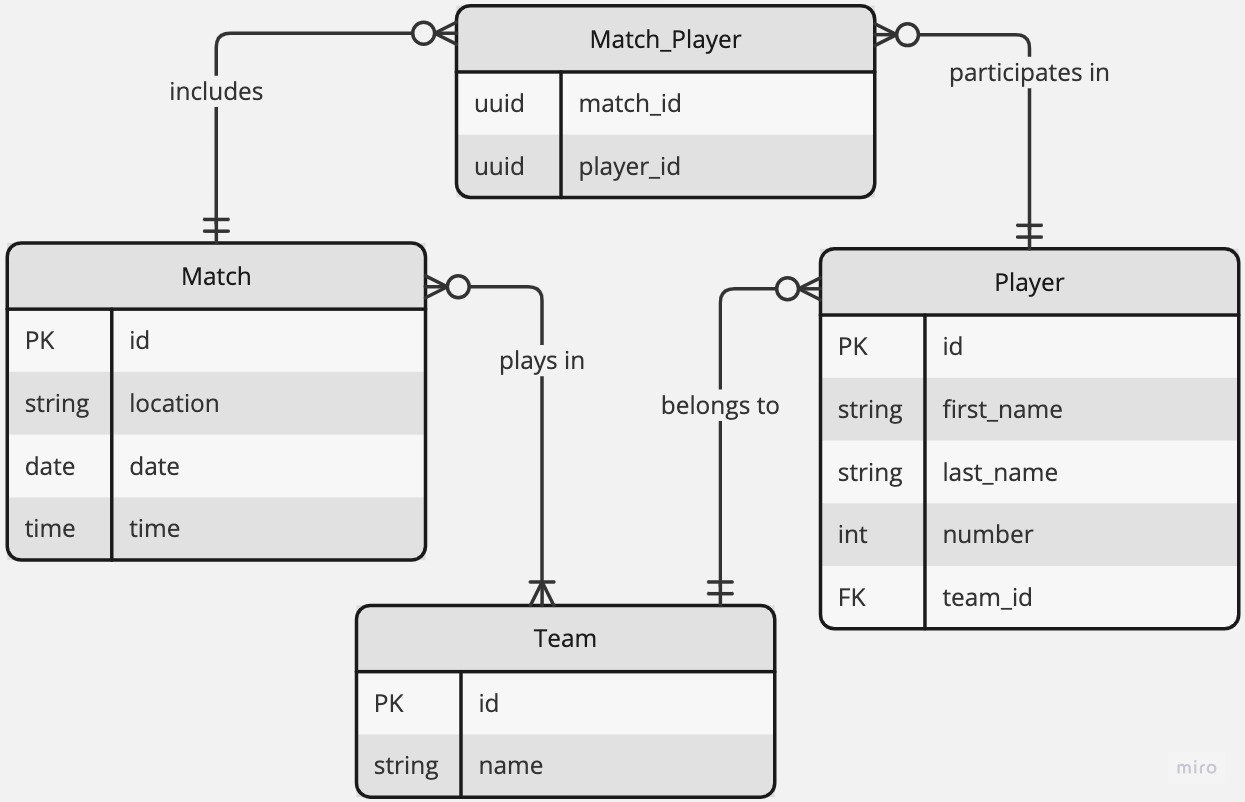
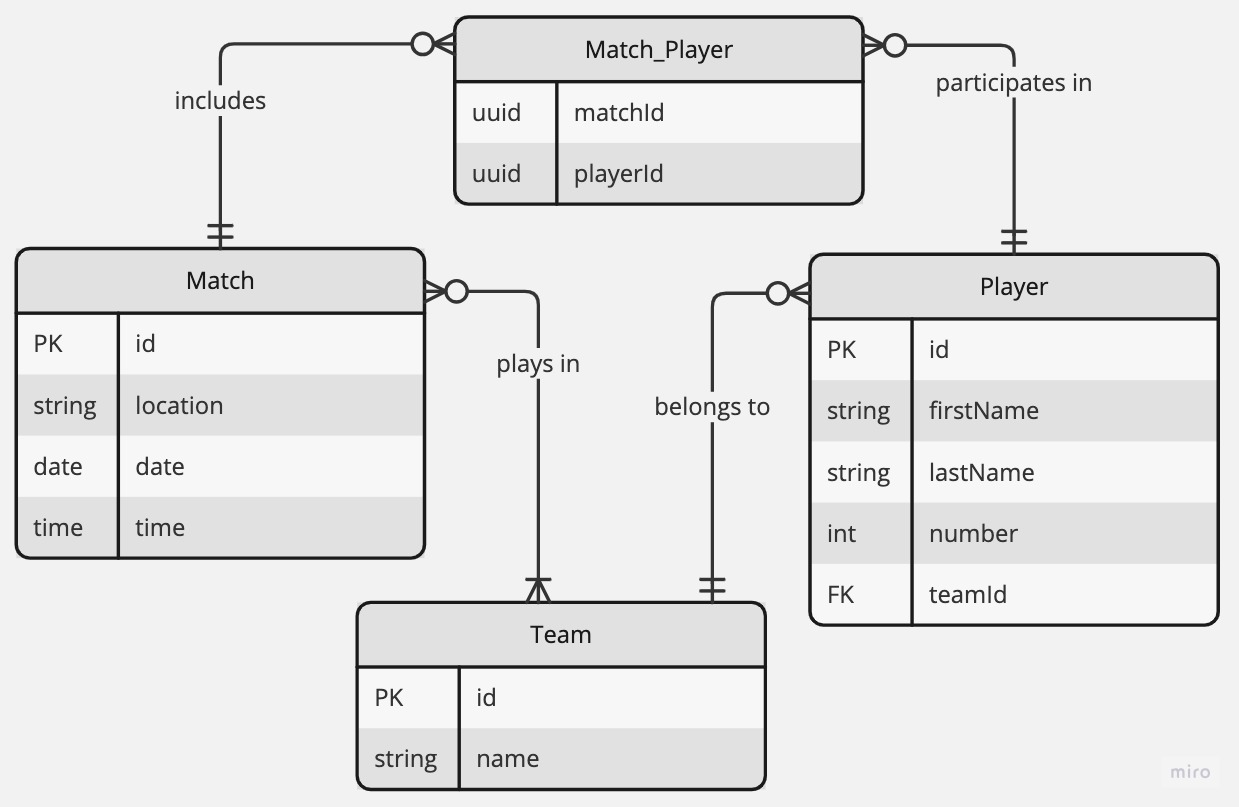
add relations

Changed region(s): [[0.0, 0.0, 1.0, 0.9975], [0.4294, 0.3741, 0.46, 0.4052]]

diff --git a/src/players/entities/player.entity.ts b/src/players/entities/player.entity.ts
@@ -1,6 +1,15 @@
-import { Column, Entity } from 'typeorm';
+import {
+  Column,
+  Entity,
+  Index,
+  JoinColumn,
+  ManyToMany,
+  ManyToOne,
+} from 'typeorm';
 import { AbstractEntity } from 'src/database/entities/abstract.entity';
 import { Field, ObjectType } from '@nestjs/graphql';
+import { Team } from 'src/teams/entities/team.entity';
+import { Match } from 'src/matches/entities/match.entity';
 
 @ObjectType('Player')
 @Entity({ name: 'Player' })
@@ -17,6 +26,13 @@ export class Player extends AbstractEntity<Player> {
   @Column()
   number: number;
 
-  @Field()
-  teamId: string;
+  @Field({ nullable: true })
+  @ManyToOne(() => Team, (team) => team.players)
+  @JoinColumn()
+  @Index()
+  team: Team;
+
+  @ManyToMany(() => Match, (match) => match.players)
+  @Field(() => [Match], { nullable: true })
+  matches: Match[];
 }

diff --git a/src/players/players.service.ts b/src/players/players.service.ts
@@ -2,6 +2,7 @@ import { Injectable } from '@nestjs/common';
 import { Repository } from 'typeorm';
 import { InjectRepository } from '@nestjs/typeorm';
 import { Player } from './entities/player.entity';
+import { Team } from 'src/teams/entities/team.entity';
 
 @Injectable()
 export class PlayersService {
@@ -14,8 +15,13 @@ export class PlayersService {
     return this.playerRepository.find();
   }
 
-  playerTeam(playerId: number) {
-    return `This action returns a #${playerId} team`;
+  async playerTeam(playerId: number): Promise<Team> {
+    const player = await this.playerRepository.findOne({
+      where: { id: playerId },
+      relations: ['team'],
+    });
+
+    return player ? player.team : null;
   }
 
   playerMatchesWithTeam(playerId: number) {

diff --git a/src/teams/teams.service.ts b/src/teams/teams.service.ts
@@ -2,6 +2,7 @@ import { Injectable } from '@nestjs/common';
 import { InjectRepository } from '@nestjs/typeorm';
 import { Repository } from 'typeorm';
 import { Team } from './entities/team.entity';
+import { Player } from 'src/players/entities/player.entity';
 
 @Injectable()
 export class TeamsService {
@@ -14,7 +15,12 @@ export class TeamsService {
     return this.teamRepository.find();
   }
 
-  teamPlayers(teamId: number) {
-    return `This action returns a #${teamId} team`;
+  async teamPlayers(teamId: number): Promise<Player[]> {
+    const team = await this.teamRepository.findOne({
+      where: { id: teamId },
+      relations: ['players', 'players.team'],
+    });
+
+    return team ? team.players : [];
   }
 }

diff --git a/src/matches/entities/match.entity.ts b/src/matches/entities/match.entity.ts
@@ -1,6 +1,7 @@
-import { Column, Entity } from 'typeorm';
+import { Column, Entity, JoinTable, ManyToMany } from 'typeorm';
 import { Field, ObjectType } from '@nestjs/graphql';
 import { AbstractEntity } from 'src/database/entities/abstract.entity';
+import { Player } from 'src/players/entities/player.entity';
 
 @ObjectType('Match')
 @Entity({ name: 'Match' })
@@ -16,4 +17,9 @@ export class Match extends AbstractEntity<Match> {
   @Field()
   @Column()
   time: string;
+
+  @ManyToMany(() => Player, (player) => player.matches, { cascade: true })
+  @JoinTable({ name: 'Match_Player' })
+  @Field(() => [Player], { nullable: true })
+  players: Player[];
 }

diff --git a/src/teams/entities/team.entity.ts b/src/teams/entities/team.entity.ts
@@ -1,11 +1,17 @@
-import { Column, Entity } from 'typeorm';
+import { Column, Entity, Index, OneToMany } from 'typeorm';
 import { Field, ObjectType } from '@nestjs/graphql';
 import { AbstractEntity } from 'src/database/entities/abstract.entity';
+import { Player } from 'src/players/entities/player.entity';
 
 @ObjectType('Team')
 @Entity({ name: 'Team' })
 export class Team extends AbstractEntity<Team> {
   @Field()
   @Column()
+  @Index()
   name: string;
+
+  @Field(() => [Player])
+  @OneToMany(() => Player, (player) => player.team, { cascade: true })
+  players: Player[];
 }

diff --git a/src/players/players.resolver.ts b/src/players/players.resolver.ts
@@ -13,8 +13,10 @@ export class PlayersResolver {
     return this.playersService.players();
   }
 
-  @Query(() => [Team], { name: 'playerTeam' })
-  playerTeam(@Args('playerId', { type: () => Int }) playerId: number) {
+  @Query(() => Team, { name: 'playerTeam' })
+  async playerTeam(
+    @Args('playerId', { type: () => Int }) playerId: number,
+  ): Promise<Team> {
     return this.playersService.playerTeam(playerId);
   }
 

diff --git a/src/teams/teams.resolver.ts b/src/teams/teams.resolver.ts
@@ -13,7 +13,9 @@ export class TeamsResolver {
   }
 
   @Query(() => [Player], { name: 'teamPlayers' })
-  teamPlayers(@Args('teamId', { type: () => Int }) teamId: number) {
+  async teamPlayers(
+    @Args('teamId', { type: () => Int }) teamId: number,
+  ): Promise<Player[]> {
     return this.teamsService.teamPlayers(teamId);
   }
 }
